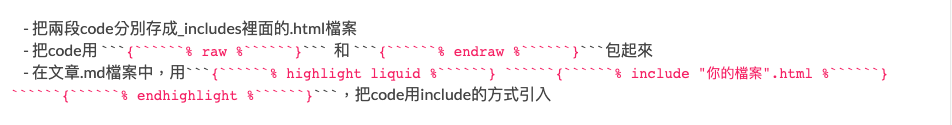
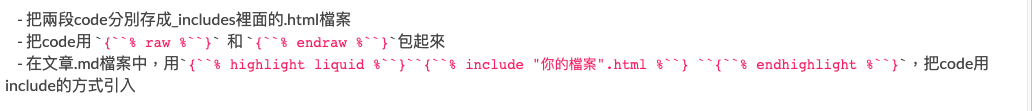
fix build failure

Changed region(s): [[0.0, 0.1081, 0.7006, 0.4865], [0.0, 0.4865, 0.9748, 0.6486], [0.0, 0.6757, 0.5788, 0.8378]]

diff --git a/_posts/2020-12-27-jekyll4.md b/_posts/2020-12-27-jekyll4.md
@@ -26,8 +26,8 @@ background: "/img/3.png"
     所以一如往常的，我使出忍術估狗之術，google search "jekyll include liquid syntax"，找到[這篇](https://stackoverflow.com/questions/37688226/include-jekyll-liquid-code-without-rendering-it) 並依照回覆中的建議解法解決了這件事。實際執行步驟為：
 
     - 把兩段code分別存成_includes裡面的.html檔案
-    - 把code用 ```{``````% raw %``````}```  和 ```{``````% endraw %``````}```包起來
-    - 在文章.md檔案中，用```{``````% highlight liquid %``````} ``````{``````% include "你的檔案".html %``````} ``````{``````% endhighlight %``````}```，把code用include的方式引入
+    - 把code用 `{``% raw %``}`  和 `{``% endraw %``}`包起來
+    - 在文章.md檔案中，用`{``% highlight liquid %``}``{``% include "你的檔案".html %``} ``{``% endhighlight %``}`，把code用include的方式引入
     
 上面這個解法，我認為是適用於需要引用較大段liquid syntax的情況，平常如果只是需要引入單行liquid syntax，我個人是把語法當中的括弧拆開放進不同code block裡面（底下有圖片支援），這樣jekyll就不會自作聰明的幫你render了。那除了步驟有點麻煩以外，在懶惰鬼三中也可以看到，liquid語法透過include顯示出來的樣子，相對於其他有code highlight的語言是樸素了些，但至少是可以作用的，我覺得可以將就著用XD
 		

diff --git a/_posts/2020-12-30-chartjs1.md b/_posts/2020-12-30-chartjs1.md
@@ -88,7 +88,7 @@ data: {
 
 一切順利的話，此時會看到長這樣的圖表，滑鼠游標移到不同區塊上面，會有hover效果以及顯示出該類別的文章篇數喔。
 
-{% picture  /img/pie.png %}
+{% picture  /img/p.png %}
 
 就此畫完圓餅圖了，折線圖下集待續！
 
